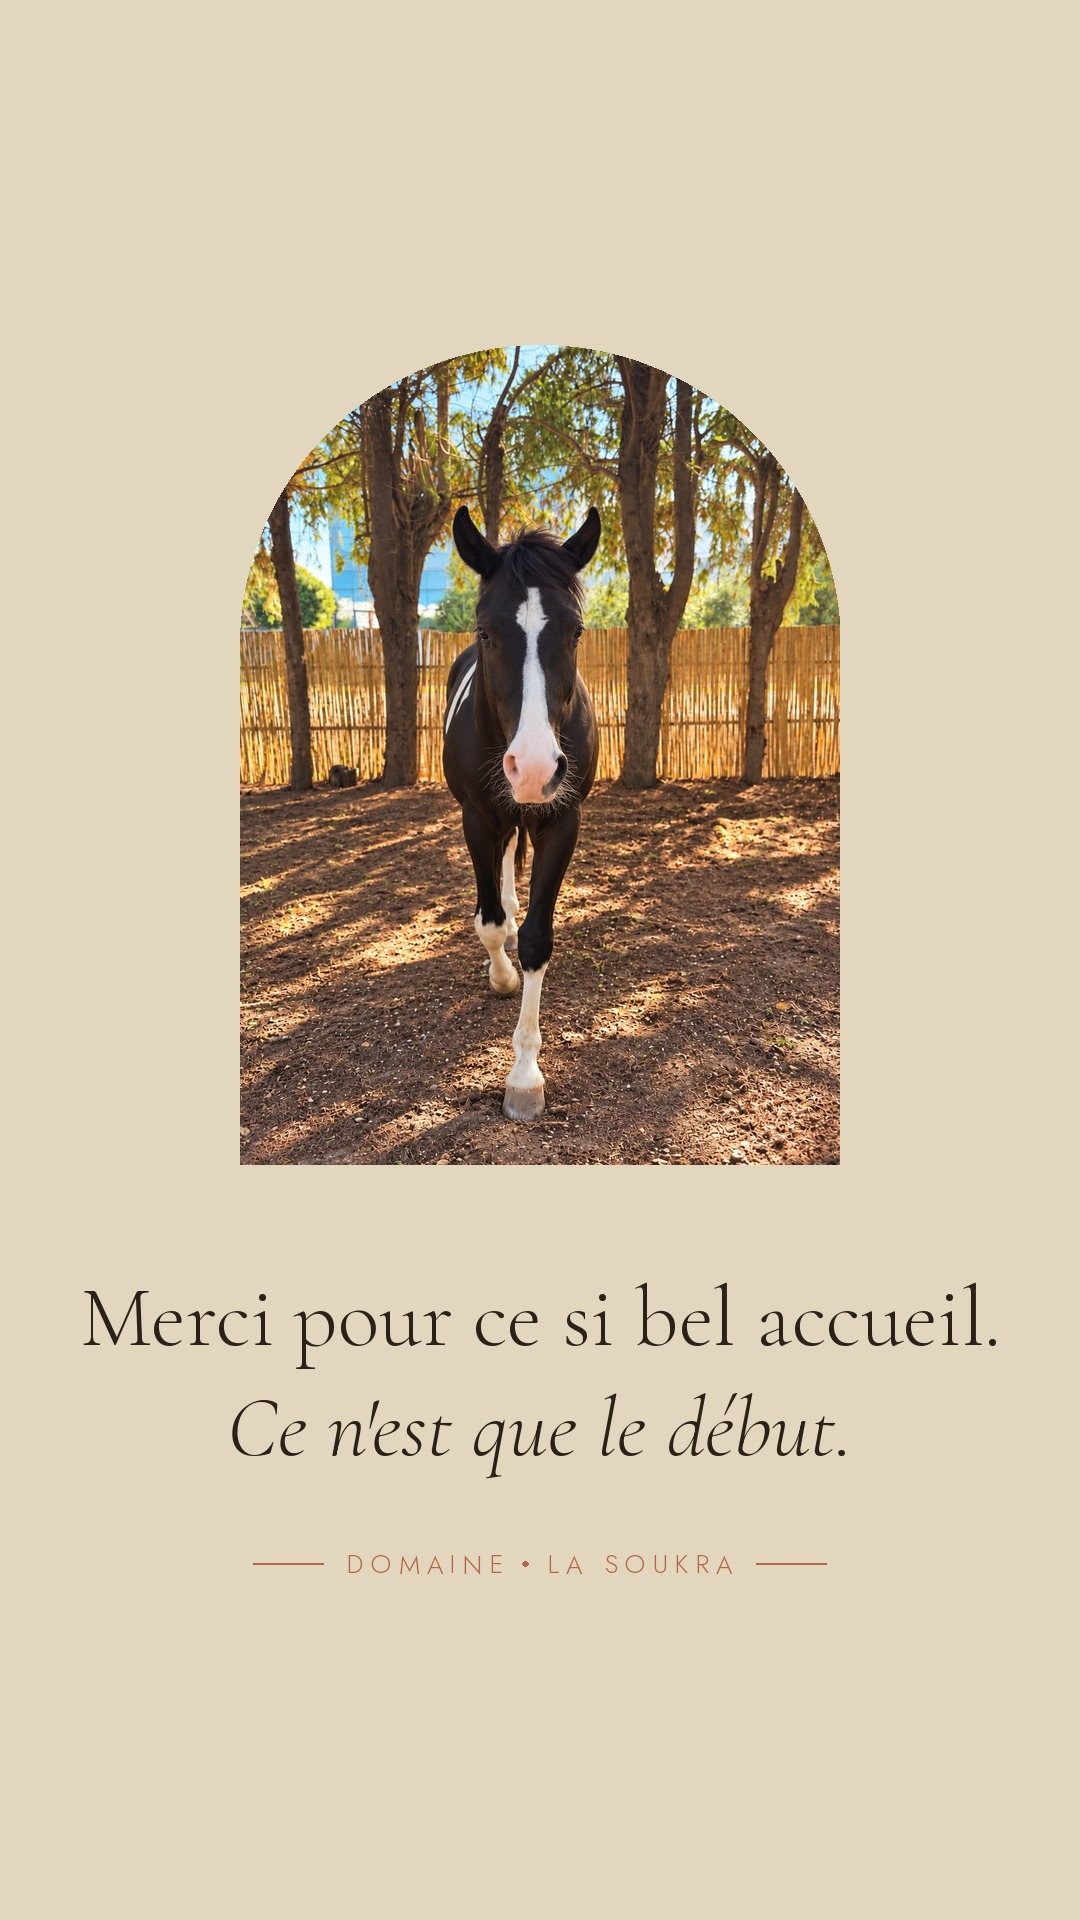
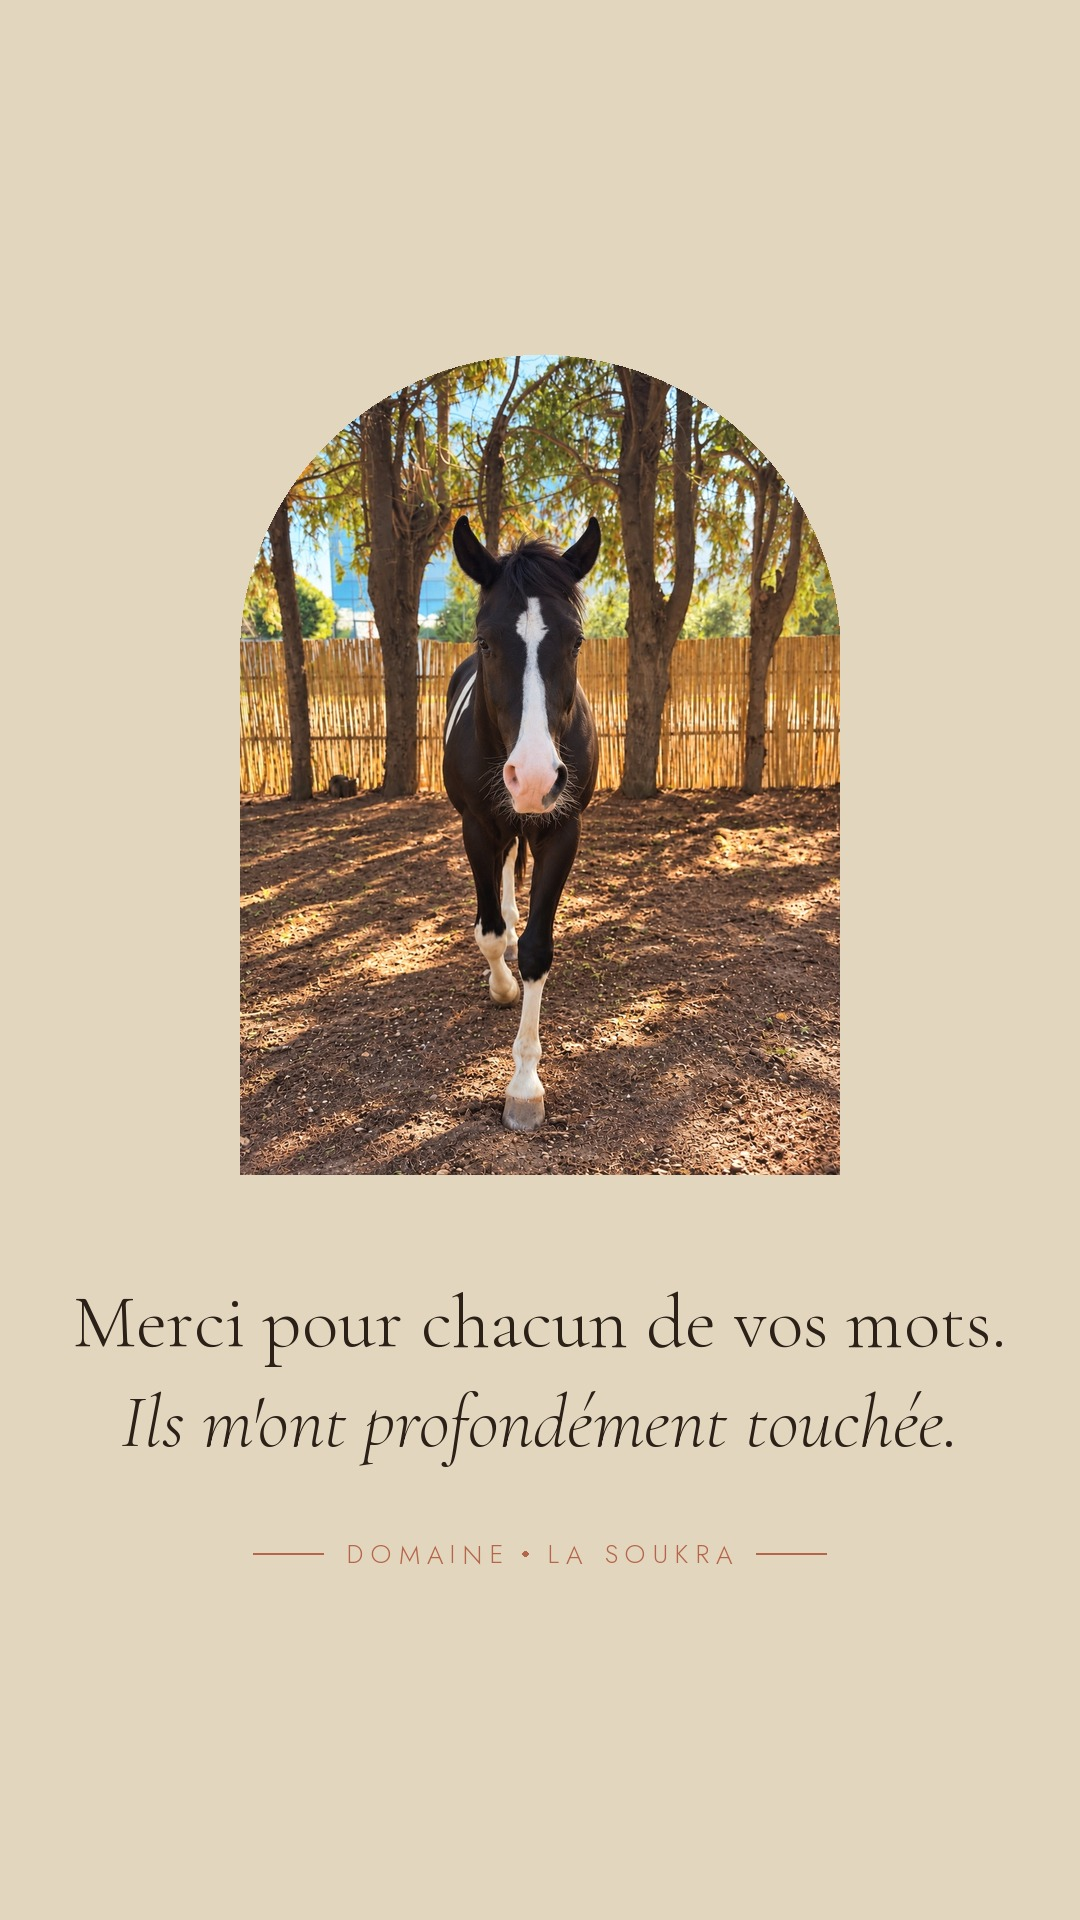
Story merci : remercier pour les commentaires
Claude-Session: https://claude.ai/code/session_01MS2dviwewWZA4sauzwea3X

Changed region(s): [[0.2139, 0.1562, 0.7944, 0.625], [0.0611, 0.6562, 0.9167, 0.7812]]

diff --git a/instagram/story_merci.py b/instagram/story_merci.py
@@ -1,5 +1,5 @@
-"""Story de remerciement après la révélation du nom : merci pour l'accueil,
-et la promesse de la suite. Deux versions : crème avec Aïko dans l'arche,
+"""Story de remerciement après la révélation du nom : merci pour les
+commentaires et les messages. Deux versions : crème avec Aïko dans l'arche,
 ou la photo des deux pies sous le texte.
 
     python3 instagram/story_merci.py
@@ -11,8 +11,10 @@ from generer import *
 OUT = RACINE / "stories"
 W, H = STORY
 CREME = "#E3D6BE"
-f_titre = serif(86, 300)
-f_italique = italique(86, 300)
+f_titre = serif(76, 300)
+f_italique = italique(76, 300)
+PHRASE = "Merci pour chacun de vos mots."
+SUITE = "Ils m'ont profondément touchée."
 
 
 def masque_arche(w, h):
@@ -24,9 +26,9 @@ def masque_arche(w, h):
 
 
 def textes(d, y, couleur, c_ligne):
-    centre(d, y, "Merci pour ce si bel accueil.", f_titre, couleur, W)
-    centre(d, y + 110, "Ce n'est que le début.", f_italique, couleur, W)
-    return ligne_domaine(d, W / 2, y + 290, c_ligne, taille=26, esp=7, graisse=300, ep=1.5)
+    centre(d, y, PHRASE, f_titre, couleur, W)
+    centre(d, y + 100, SUITE, f_italique, couleur, W)
+    return ligne_domaine(d, W / 2, y + 270, c_ligne, taille=26, esp=7, graisse=300, ep=1.5)
 
 
 # 1. Crème : Aïko s'avance dans l'arche.
